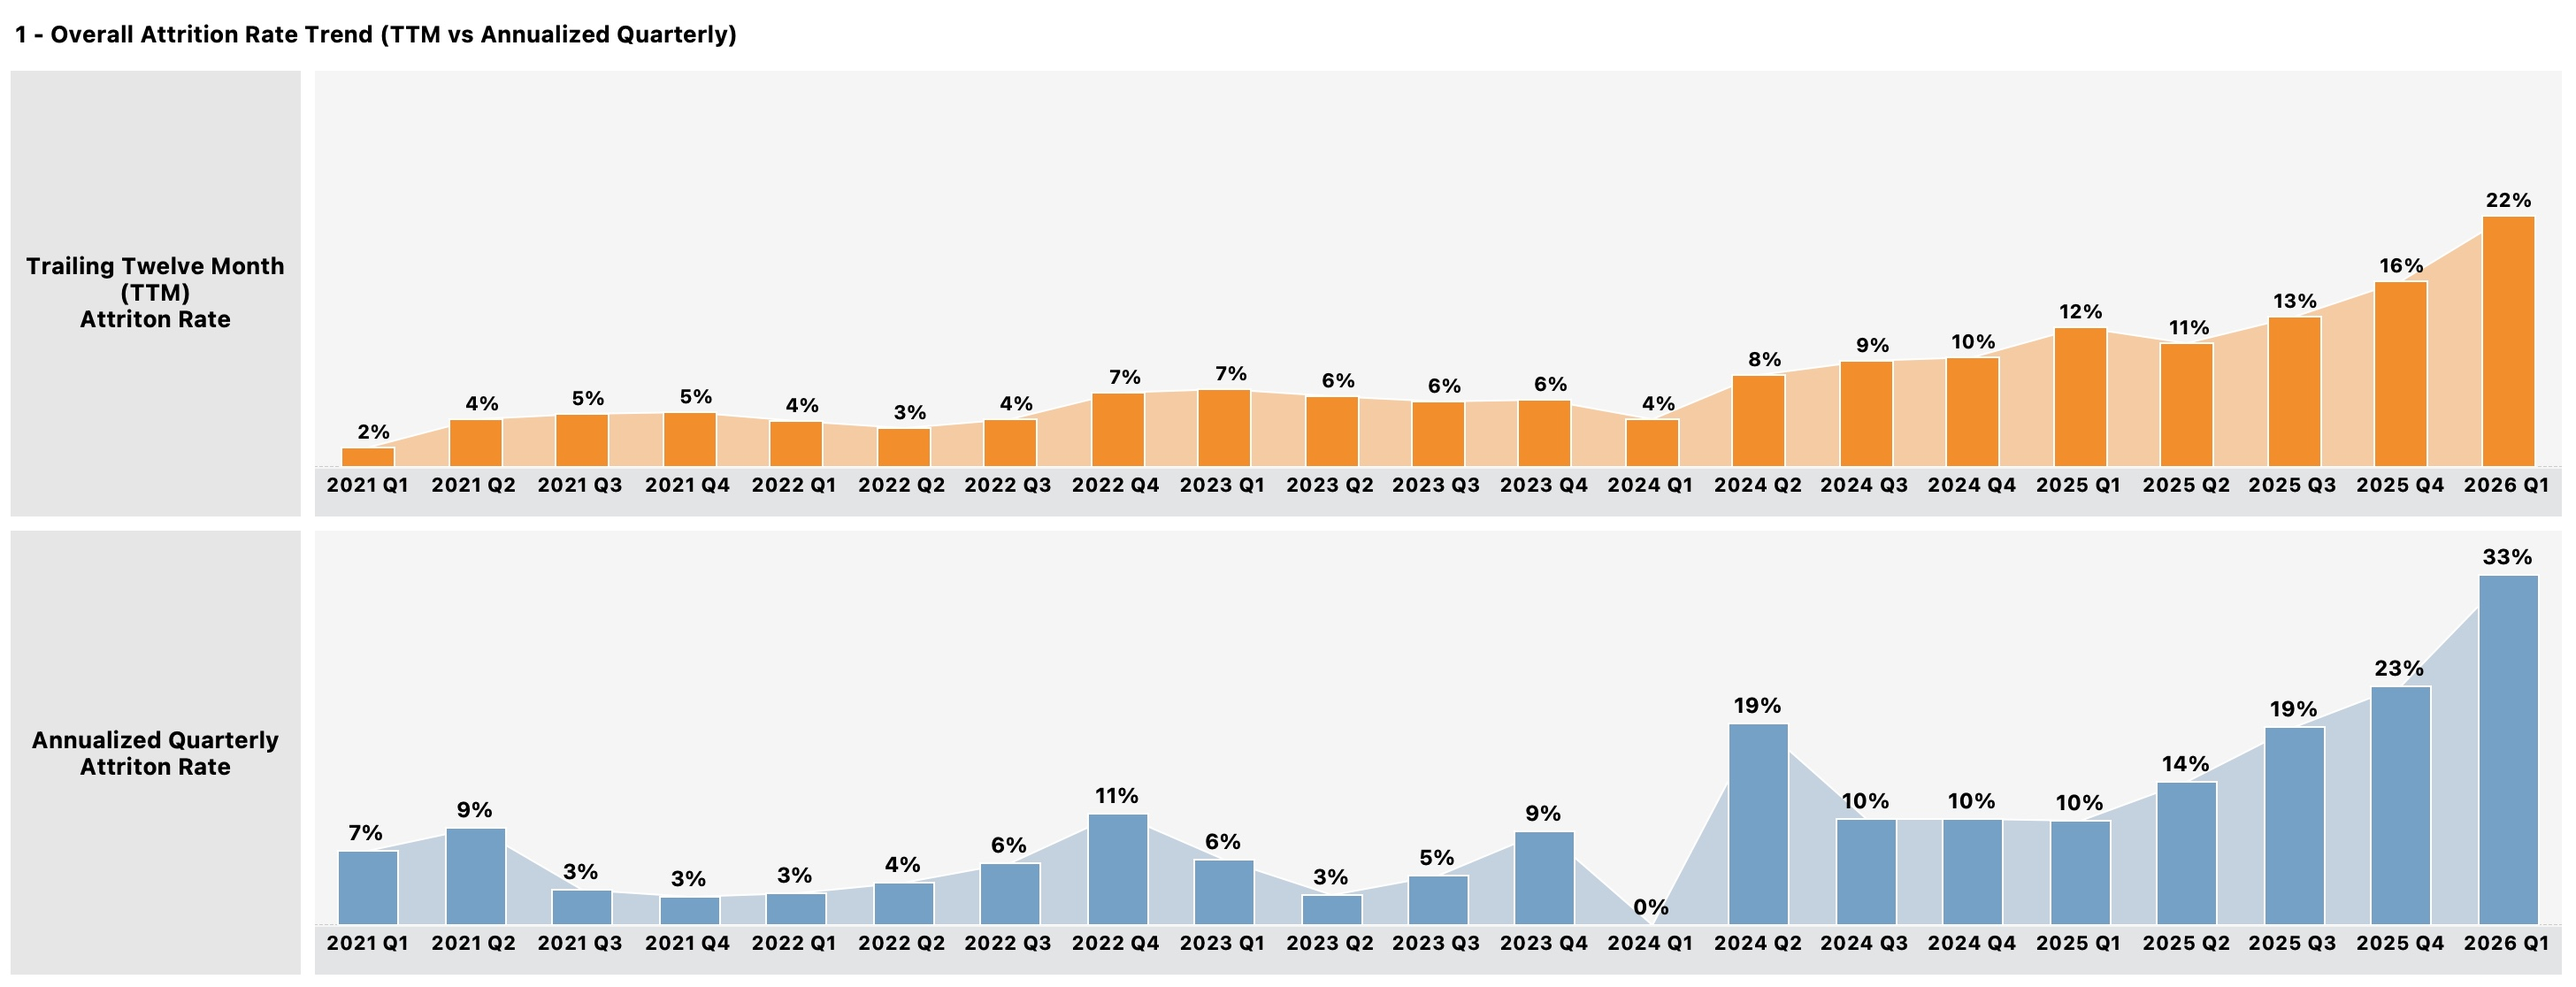
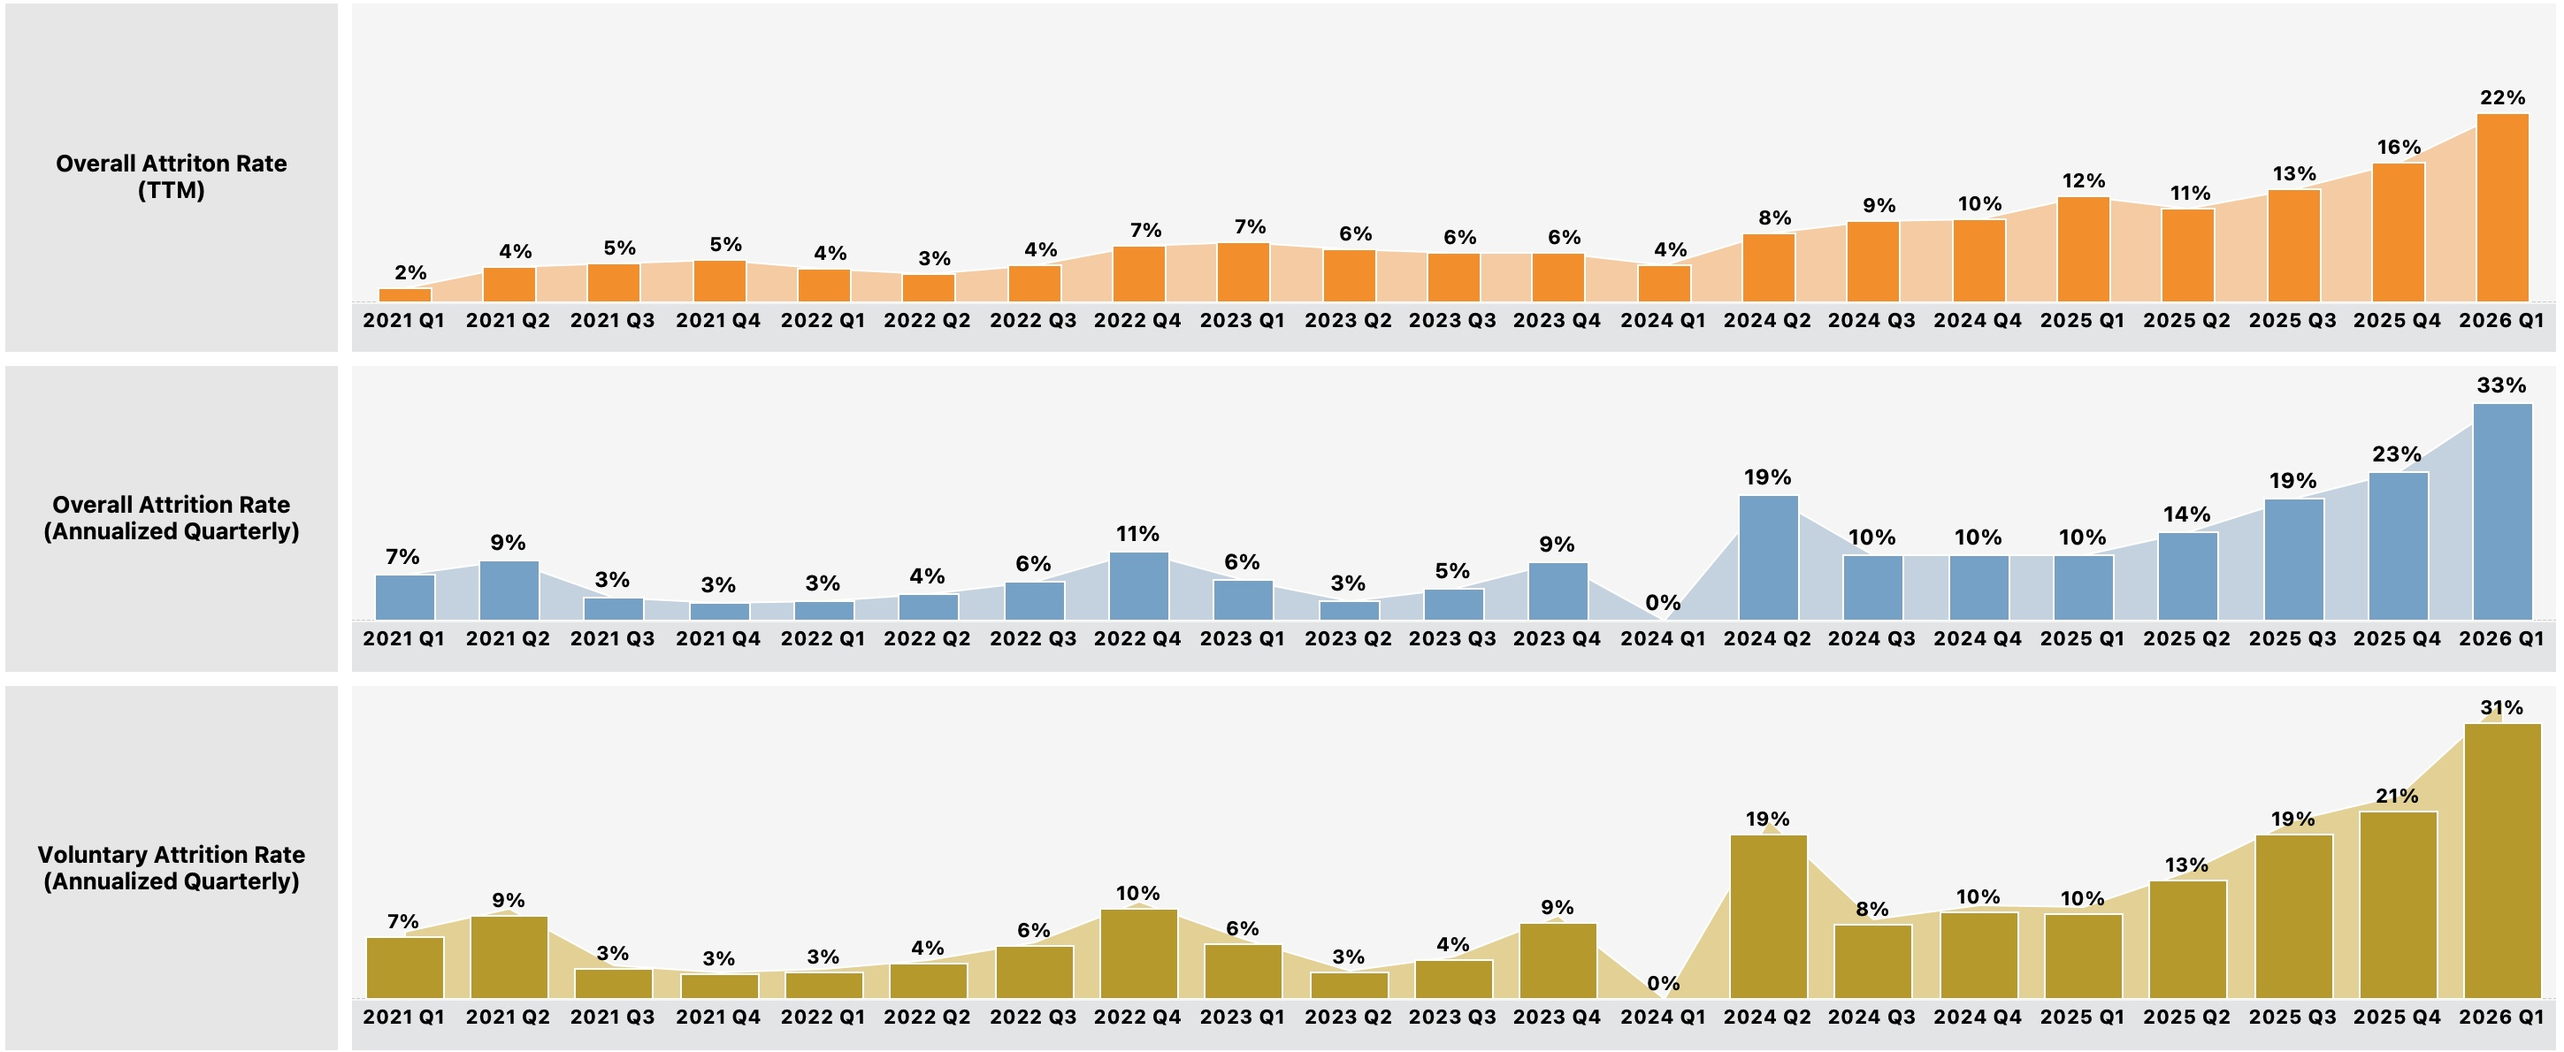
Update chart caption

diff --git a/docs/02_attrition.md b/docs/02_attrition.md
@@ -4,64 +4,47 @@
 
 ---
 
-## Key Findings
+## Summary of Findings
 
-**JustKaizen is losing people at an accelerating rate, and over half of those losses are regrettable.** The 3-month annualized attrition rate reached 33.4% in Q1 2026, more than triple the rate from one year ago. The 12-month trailing rate stands at 22.2%, confirming this is a sustained trend and not a seasonal blip. Of 104 departures in Q1 2026, 54 (52%) were regrettable and 27 (26%) were top performers. The problem is most acute in Customer Success, Sales, and Engineering -- the same three departments driving the headcount decline.
+1. 2026 Q1 TTM Overall Attrition Rate grew to 33% in 2026 Q1 from 23% in the previous quarter. This is mainly driven by a spike in voluntary attrition (31% annualized, Q1).
+2. 2026 Q1 Attrition is most concerning in revenue generating functions: Customer Success (42%), Sales (37%), and Engineering (36%). 8 sub-departments within these functions have an annualized voluntary attrition rate greater than 40%.
+3. 2026 Q1 Annualized Top Performer Attrition Rate increased to 11% from 7% the previous quarter. Top Performer Attrition is most elevated in G&A (18.9% annualized) followed by Sales, CS, Eng, and Product each with a 10-11% annualized rate.
+4. In 2026 Q1, the top reasons for terminations are Career Opportunities (36%), Work-Life Balance (18%), and Compensation (15%)
 
 ---
 
-## Attrition Trend
+## 1 - Overall Attrition Rate grew to 33% (TTM) in 2026 Q1 from 23% in the previous quarter. This is mainly driven by a spike in Voluntary Attrition (31% from 21% annualized)
 
 ![Quarterly Attrition Rates: TTM and R3M Annualized (2024 Q1 - 2026 Q1)](../dashboards/A1_Attrition_Quarterly_TTM.png)
 
-The TTM rate provides the structural view: attrition has roughly doubled every 12 months since 2024 Q2, rising from 8.2% to 22.2%. The R3M annualized rate shows the recent acceleration -- the current quarter is running at 33.4%, a pace that would mean losing one-third of the workforce if sustained for a full year. For context, the tech sector median for voluntary attrition is typically 13-15% annually. JustKaizen's TTM voluntary rate of 21.1% is already well above industry norms, and the quarterly pace suggests it is still accelerating.
-
 ---
 
-## Where Attrition is Concentrated
+## 2 - 2026 Q1 Annualized Attrition Rate is most elevated in Customer Success (42%), Sales (37%), and Engineering (36%)
 
 ![Department Attrition Rates (Q1 2026)](../dashboards/A2_Dept_Attrition_Rates.png)
 
-Customer Success (42%), Sales (37%), and Engineering (36%) are running at annualized rates that would turn over a third or more of each department in a year. These are the same three departments driving the headcount decline identified in [Section 1](01_workforce_composition.md). The pattern is consistent: revenue-generating and product-building functions are losing people fastest, while G&A, People, and Executive are comparatively stable.
+*Note: The annualized rate for "Executive" is 102%. Though this will be noted for investigation, its sample size triggers the rate heavily and has less of an impact on the org-wide overall rate.*
+
+Within these revenue generating functions, 8 sub-departments have annualized voluntary attrition rates greater than 40%: CSM (64%), Customer Education (53%), Account Management (54%), Sales Engineering (52%), SDRs (44%), DevOps (46%), Infrastructure (45%), and AI/ML (42%)
+
+![Annualized Attrition Rate by Sub-Department: Customer Success, Sales, Engineering (Q1 2026)](../dashboards/A3_SubDept_Annualized_Attrition.png)
 
 ---
 
-## Sub-Department Deep Dive
+## 3 - 2026 Q1 Annualized Top Performer Attrition Rate increased to 11% from 7% the previous quarter
 
-![Annualized Attrition Rate by Sub-Department: Customer Success, Sales, Engineering (Q1 2026)](../dashboards/A5_SubDept_Annualized_Attrition.png)
+![Annualized Top Performer Attrition Rate Overall (Q1 2026)](../dashboards/A4_Annualized_Top_Performer_Attrition_rate_overall.png)
 
-The sub-department view reveals the sharpest pain points. CSMs are leaving at a 63.6% annualized rate (n=7), which would turn over the entire team in under two years. Customer Education (52.9%) and Account Management (53.6%) follow closely. In Engineering, the losses are broad-based -- every sub-department from DevOps & SRE (46.2%) down to Security (22.2%) is bleeding talent, with Career Opportunities as the universal top reason. The Sales pattern is distinct: Account Management (53.6%) is driven by Manager Relationship issues rather than career growth, pointing to a localized leadership problem rather than a systemic one.
+Top Performer Attrition is most elevated in G&A (18.9% annualized) followed by Sales, CS, Eng, and Product each with a 10-11% annualized rate.
 
----
-
-## Why People Are Leaving
-
-![Termination Reason Distribution (Q1 2026)](../dashboards/A3_Termination_Reason_Distribution.png)
-
-Career Opportunities is the top reason at 36%, followed by Work-Life Balance (18%) and Compensation (15%). When employees consistently cite career growth as the reason for leaving, it typically signals one of three things: the internal promotion pipeline is too slow, the role has limited scope for growth, or competitors are offering titles and responsibilities that JustKaizen is not. This is a structural retention problem, not individual dissatisfaction.
+![Top Performer Attrition Rate by Department (Q1 2026)](../dashboards/A5_Top_Performer_Attrition_Dept.png)
 
 ---
 
-## Who We're Losing: Top Performer and Regrettable Attrition
+## 4 - In 2026 Q1, the top reasons for terminations are Career Opportunities (36%), Work-Life Balance (18%), and Compensation (15%)
 
-![Top Performer and Regrettable Attrition Rate by Department (Q1 2026)](../dashboards/A4_Top_Performer_Regrettable_Attrition_Dept.png)
-
-The Executive team stands out at 133% top performer attrition and 200% regrettable attrition (annualized) -- small absolute numbers but structurally destabilizing. Among larger departments, Customer Success has the highest regrettable attrition rate (34%), followed by People (25%), Sales (23%), and Engineering/Marketing/Product (20% each). More than half of all Q1 departures (52%) were classified as regrettable, and 26% were top performers. At the Director level, one-third of departures were top performers. These are the hardest roles to backfill and the most disruptive to lose.
+![Termination Reason Distribution (Q1 2026)](../dashboards/A6_Termination_Reason_Distribution.png)
 
 ---
 
-## Recommended Actions
-
-1. **Conduct stay interviews in Customer Success and Engineering.** These two departments have the highest regrettable attrition rates among large teams. The data says "career opportunities" is the reason -- stay interviews will reveal what specific opportunities are pulling people away and what JustKaizen would need to offer to compete.
-
-2. **Audit the management layer in Sales, specifically Account Management.** Manager Relationship as the top reason at 26% is an outlier relative to the rest of the org (10%). This suggests a localized leadership problem that can be addressed through coaching, reassignment, or structural changes.
-
-3. **Review Engineering compensation against market data.** Engineering's compa-ratio of 0.992 combined with Career Opportunities as the universal departure reason and a 50% offer acceptance rate all point to the same conclusion: the compensation package is not competitive. See [Section 4: Compensation](04_compensation.md) for detail.
-
-4. **Build career progression frameworks for CSM and SDR roles.** These are high-attrition, early-career roles where the top reason for leaving is career opportunities. A visible promotion path (CSM to Senior CSM to CS Manager, SDR to AE) with defined timelines and criteria would directly address the retention driver.
-
-5. **Present the regrettable attrition rate to leadership as the primary workforce metric.** Overall attrition rate includes departures the company is comfortable with. The 52% regrettable rate isolates the problem to its most actionable form: more than half the people leaving are people the company wants to keep.
-
----
-
-*Data source: fct_attrition_reporting, fct_employee_roster. TTM = trailing twelve-month rate. R3M Annualized = 3-month terminations / 3-month average headcount, multiplied by 4 to project an annual rate. Regrettable classification is assigned at time of termination by the departing employee's manager. Top performer = most recent performance rating of 4+ or critical talent flag.*
+[← Previous: Headcount Growth](01_workforce_composition.md) | [Back to Report Summary](../README.md) | [Next: Hiring Pipeline →](03_hiring.md)

diff --git a/docs/03_hiring.md b/docs/03_hiring.md
@@ -68,4 +68,4 @@ The hiring pipeline data does not exist in isolation. When combined with attriti
 
 ---
 
-*Data source: fct_recruiting_reporting, fct_recruiting_velocity, raw_offers_hires. Offer acceptance rate = offers accepted / offers extended. Time-to-fill = calendar days from requisition open date to candidate start date. TTM = trailing twelve-month. R3M = trailing three-month. SHRM benchmark of 90% offer acceptance rate cited from SHRM annual talent acquisition benchmarking reports. Time-to-fill typical range (25-42 days) sourced from [The Resource Group](https://www.theresource.com/2025/10/13/average-time-to-hire/).*
+[← Previous: Attrition](02_attrition.md) | [Back to Report Summary](../README.md) | [Next: Compensation →](04_compensation.md)

diff --git a/docs/06_performance.md b/docs/06_performance.md
@@ -66,4 +66,4 @@ The company has invested in identifying and rating its top talent through a stru
 
 ---
 
-*Data source: fct_performance_distribution, fct_employee_roster. Top performer = most recent performance rating of 4+ (Exceeds or Significantly Exceeds Expectations) or critical talent flag. Rating distribution reflects active employees from the 2025 Year-End Review Cycle. Replacement cost estimates reference the Center for American Progress methodology.*
+[← Previous: Engagement](05_engagement.md) | [Back to Report Summary](../README.md) | [Next: Cross-Domain Insights →](07_cross_domain_insights.md)

diff --git a/docs/05_engagement.md b/docs/05_engagement.md
@@ -56,4 +56,4 @@ Employee Engagement and Culture & Values score highest across the board (3.6-3.9
 
 ---
 
-*Data source: fct_engagement_trends. eNPS = 100 × (% Promoter - % Detractor) on a 0-10 scale. Theme scores are on a 1-5 Likert scale. Survey data is anonymized at the department level; individual-level engagement scores are not available.*
+[← Previous: Compensation](04_compensation.md) | [Back to Report Summary](../README.md) | [Next: Performance →](06_performance.md)

diff --git a/docs/04_compensation.md b/docs/04_compensation.md
@@ -68,4 +68,4 @@ The compensation data becomes most valuable when layered with the attrition find
 
 ---
 
-*Data source: fct_compensation_reporting, fct_employee_roster. Compa-ratio = employee salary / compensation band midpoint. Below band = compa-ratio < 0.85. Above band = compa-ratio > 1.15. All figures reflect active employees as of Q1 2026.*
+[← Previous: Hiring Pipeline](03_hiring.md) | [Back to Report Summary](../README.md) | [Next: Engagement →](05_engagement.md)

diff --git a/docs/07_cross_domain_insights.md b/docs/07_cross_domain_insights.md
@@ -81,4 +81,4 @@ The common thread is that each population's problem has a *specific, identifiabl
 
 ---
 
-*This section synthesizes findings from all six domain analyses. No new data sources are introduced. All figures reference the same time period (Q1 2026) and the same data infrastructure documented in the companion repository.*
+[← Previous: Performance](06_performance.md) | [Back to Report Summary](../README.md)

diff --git a/docs/01_workforce_composition.md b/docs/01_workforce_composition.md
@@ -54,4 +54,4 @@ The steepest drops are in specialized, high-impact teams. Product Marketing (-19
 
 ---
 
-*Data source: fct_workforce_composition, fct_employee_roster. Headcount is measured as active employees at end of month/quarter. Growth rates are calculated as (end / start - 1).*
+[← Back to Report Summary](../README.md) | [Next: Attrition →](02_attrition.md)
